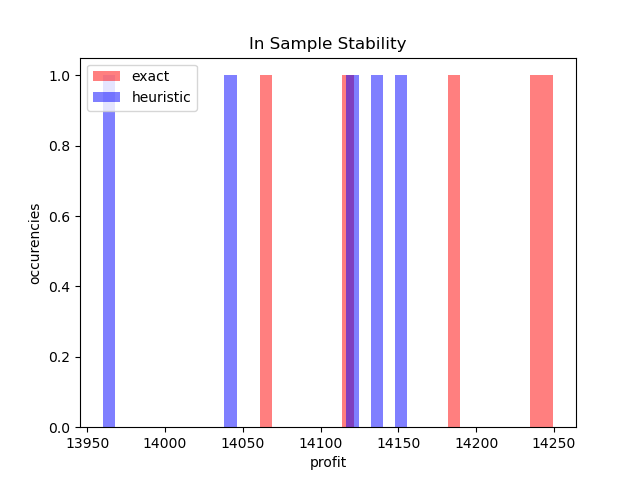
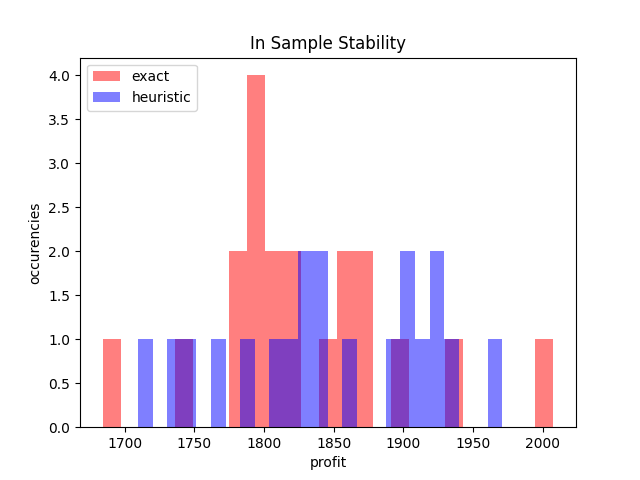
Added probability matrix in the new generator + added missing heu constraint

diff --git a/utility/OD_matrix_gen_2_trial.py b/utility/OD_matrix_gen_2_trial.py
@@ -27,6 +27,16 @@ class Generator():
                     size=(n_stations, n_stations))
                 ))
 
+        self.prob_matrix = np.zeros((n_stations, n_stations))
+
+        for i in range(n_stations):
+            for j in range(n_stations):
+                if i != j:
+                    self.prob_matrix[i, j] = i + j
+                    self.prob_matrix[i, j] = 1 - (
+                        self.prob_matrix[i, j] / ((n_stations - 1) * 2)
+                    )
+
         self.scenarios = [np.around(np.random.uniform(self.min_od_matrix, self.max_od_matrix)) for _ in range(n_scenarios)]
         self.scenarios = np.array(self.scenarios)
         
@@ -42,14 +52,17 @@ class Generator():
         self.scenario_res = np.stack(self.scenario_arrays, axis=2)
 
     def normal_matrix(self):
-        return np.around(np.absolute(np.random.normal(self.mean_od_matrix, self.std_od_matrix )))
-
+        return np.floor(
+            self.prob_matrix * np.around(np.absolute(np.random.normal(self.mean_od_matrix, self.std_od_matrix )))
+        )
     def uniform_matrix(self):
-        return np.around(np.random.uniform(self.min_od_matrix, self.max_od_matrix))
-
+        return np.floor(
+            self.prob_matrix *  np.around(np.random.uniform(self.min_od_matrix, self.max_od_matrix))
+        )
     def exponential_matrix(self):
-        return np.around(np.random.exponential(self.mean_od_matrix))
-
+        return np.floor(
+            self.prob_matrix * np.around(np.random.exponential(self.mean_od_matrix))
+        )
 if __name__=="__main__":
     gen = Generator(500,22)
     print(gen.min_od_matrix)

diff --git a/heuristic/heuristics.py b/heuristic/heuristics.py
@@ -114,6 +114,12 @@ class ProgressiveHedging():
 
 
         ### Costraints
+
+        for i in stations:
+            model.addConstr(
+                X[i] <= dict_data['station_cap'][i],
+                f"station_bike_limit"
+            )
             
         for i in stations:
             for j in stations:

diff --git a/solver/sampler.py b/solver/sampler.py
@@ -1,6 +1,6 @@
 # -*- coding: utf-8 -*-
 import numpy as np
-import utility.OD_matrix_realistic as gen
+import utility.OD_matrix_gen_2_trial as gen
 
 class Sampler:
     def __init__(self):
